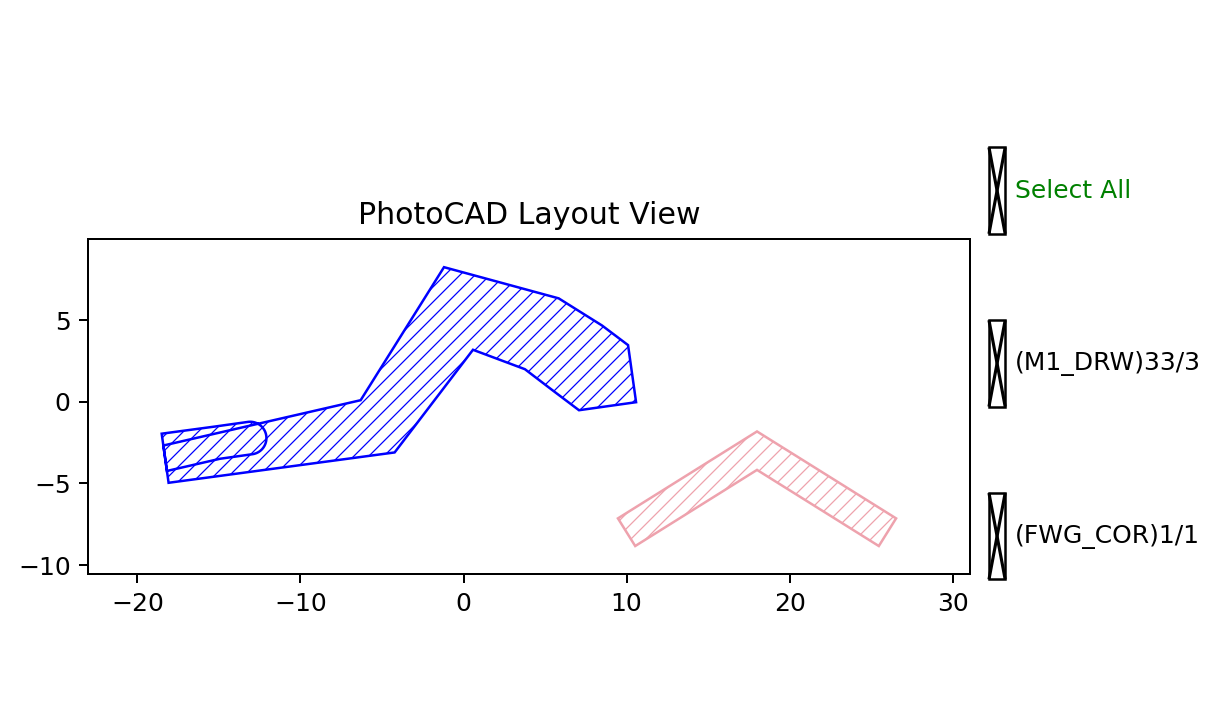
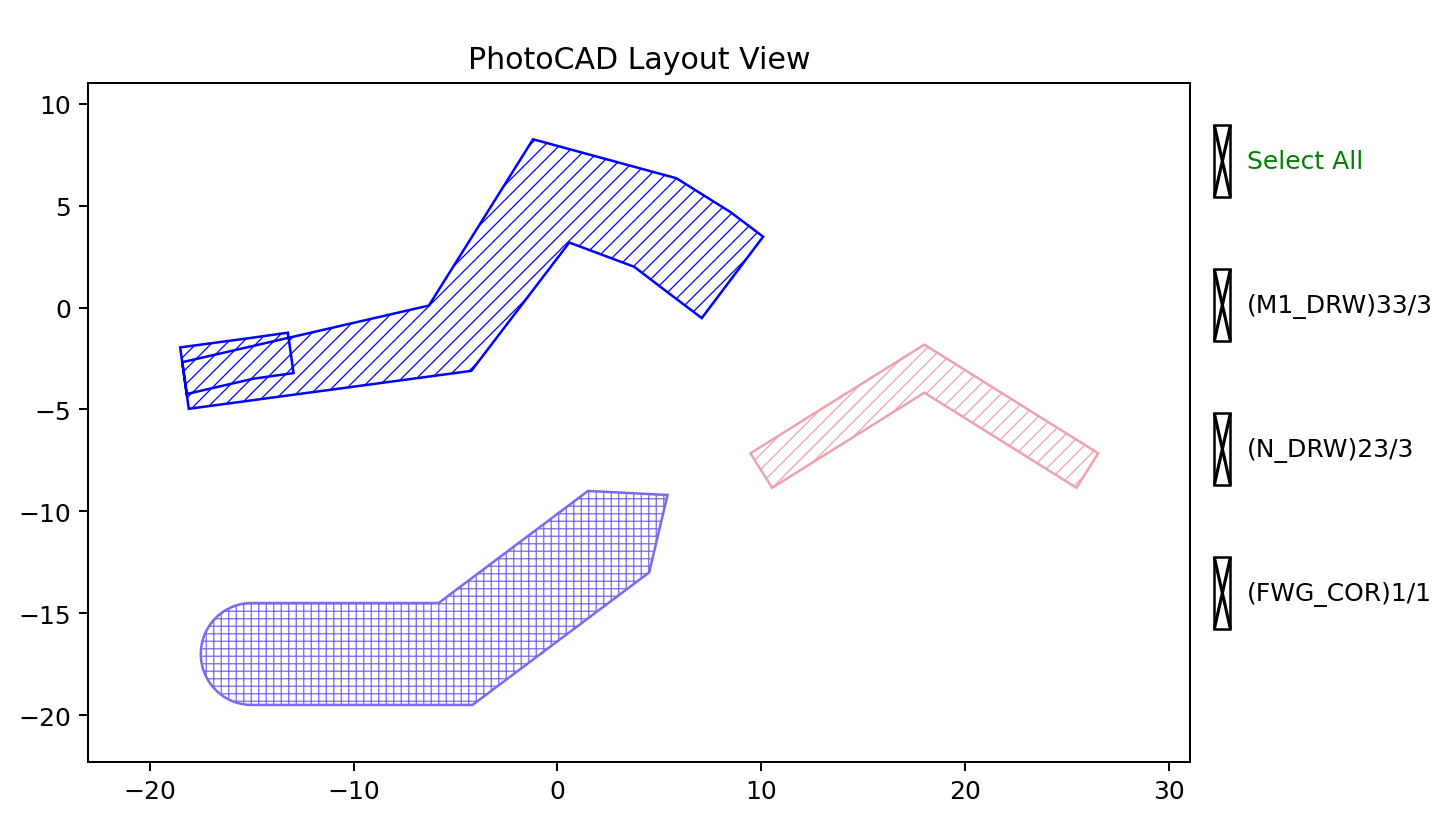
Add focused line cap examples

diff --git a/docs/en/09_api/elem_line.rst b/docs/en/09_api/elem_line.rst
@@ -142,8 +142,9 @@ LineBetween Parameters
 Basic Usage
 -----------
 
-The examples show a tapered ``Line`` and a ``LineBetween`` constructed from
-two explicit coordinates.
+The first two examples cover the taper, placement, and transform parameters.
+``cap_line`` is a fixed-width horizontal line without a transform, so the
+rounded start and triangular end can be compared directly.
 
 .. code-block:: python
 
@@ -162,10 +163,7 @@ two explicit coordinates.
        final_stroke_offset=1,
        taper_function=fp.TaperFunction.LINEAR,
        extension=(2, 3),
-       line_cap=(
-           fp.el.LineCapRound(),
-           fp.el.LineCapTriangle(ratio=0.6),
-       ),
+       line_cap=(None, None),
        origin=(-15, 8),
        transform=fp.rotate(degrees=5),
        layer=TECH.LAYER.FWG_COR,
@@ -181,18 +179,29 @@ two explicit coordinates.
        final_stroke_offset=0.5,
        taper_function=fp.TaperFunction.LINEAR,
        extension=(1, 1),
-       line_cap=(fp.el.LineCapRound(), fp.el.LineCapRound()),
+       line_cap=(None, None),
        origin=(12, 0),
        transform=fp.rotate(degrees=-5),
        layer=TECH.LAYER.M1_DRW,
    )
 
+   cap_line = fp.el.LineBetween(
+       start=(-10, -16),
+       end=(10, -16),
+       stroke_width=5,
+       line_cap=(
+           fp.el.LineCapRound(),
+           fp.el.LineCapTriangle(ratio=0.6),
+       ),
+       layer=TECH.LAYER.N_DRW,
+   )
+
    examples = fp.Device(
        name="line_examples",
-       content=[tapered_line, connected_line],
+       content=[tapered_line, connected_line, cap_line],
    )
    fp.plot(examples)
 
 .. image:: image/elem_line.png
-   :alt: Line and LineBetween examples
+   :alt: Line, LineBetween, and untransformed line cap examples
    :align: center

diff --git a/docs/en/09_api/elem_polyline.rst b/docs/en/09_api/elem_polyline.rst
@@ -77,7 +77,9 @@ Basic Usage
 -----------
 
 The first example exercises width, offset, tangent, corner, extension, and
-cap controls. The second shows a constant-width polyline.
+transform controls. The second shows a constant-width polyline.
+``cap_polyline`` uses simple raw coordinates without a transform so its rounded
+start and triangular end can be inspected directly.
 
 .. code-block:: python
 
@@ -98,10 +100,7 @@ cap controls. The second shows a constant-width polyline.
        raw_end_orientations=(0, -math.pi / 4),
        miter_limit=4,
        extension=(2, 2),
-       line_cap=(
-           fp.el.LineCapRound(),
-           fp.el.LineCapTriangle(ratio=0.5),
-       ),
+       line_cap=(None, None),
        origin=(-15, -3),
        transform=fp.rotate(degrees=8),
        layer=TECH.LAYER.FWG_COR,
@@ -114,12 +113,22 @@ cap controls. The second shows a constant-width polyline.
        layer=TECH.LAYER.M1_DRW,
    )
 
+   cap_polyline = fp.el.Polyline(
+       raw_polyline_points=[(-15, -17), (-5, -17), (3, -11)],
+       stroke_width=5,
+       line_cap=(
+           fp.el.LineCapRound(),
+           fp.el.LineCapTriangle(ratio=0.6),
+       ),
+       layer=TECH.LAYER.N_DRW,
+   )
+
    examples = fp.Device(
        name="polyline_examples",
-       content=[tapered_polyline, constant_polyline],
+       content=[tapered_polyline, constant_polyline, cap_polyline],
    )
    fp.plot(examples)
 
 .. image:: image/elem_polyline.png
-   :alt: Tapered and constant-width Polyline examples
+   :alt: Polyline and untransformed line cap examples
    :align: center

diff --git a/docs/en/09_api/elem_elliptical_arc.rst b/docs/en/09_api/elem_elliptical_arc.rst
@@ -93,9 +93,9 @@ the element follows a full ``360``-degree elliptical path.
 Basic Usage
 -----------
 
-The following examples cover every parameter listed above. The first arc uses
-two radii, degree angles, tapered width and offset, extensions, line caps, and a
-transform. The second arc demonstrates a single radius and radian angle inputs.
+The first two examples cover the radius, angle, taper, extension, and transform
+parameters. ``cap_arc`` isolates ``line_cap`` on a fixed-width elliptical arc
+without a transform, making the two end shapes easier to inspect.
 
 .. code-block:: python
 
@@ -110,7 +110,7 @@ transform. The second arc demonstrates a single radius and radian angle inputs.
         final_stroke_offset=1,
         taper_function=fp.TaperFunction.LINEAR,
         extension=(1, 2),
-        line_cap=(fp.el.LineCapRound(), fp.el.LineCapRound()),
+        line_cap=(None, None),
         origin=(0, 0),
         transform=fp.translate(0, 1),
         layer=TECH.LAYER.M1_DRW,
@@ -123,6 +123,19 @@ transform. The second arc demonstrates a single radius and radian angle inputs.
         stroke_width=1.2,
         origin=(26, 0),
         layer=TECH.LAYER.N_DRW,
+    )
+
+    cap_arc = fp.el.EllipticalArc(
+        radius=(9, 5),
+        initial_degrees=200,
+        final_degrees=340,
+        stroke_width=4,
+        line_cap=(
+            fp.el.LineCapRound(),
+            fp.el.LineCapTriangle(ratio=0.6),
+        ),
+        origin=(14, -15),
+        layer=TECH.LAYER.FWG_COR,
     )
 
 .. image:: image/elem_elliptical_arc_basic.png

diff --git a/docs/en/09_api/elem_curve.rst b/docs/en/09_api/elem_curve.rst
@@ -73,8 +73,10 @@ Parameters
 Basic Usage
 -----------
 
-Create a geometric centerline first, then pass it to ``fp.el.Curve``. This
-example uses ``fp.g.Bezier`` as the centerline.
+Create a geometric centerline first, then pass it to ``fp.el.Curve``. The
+Bezier example covers the taper and transform parameters. ``cap_curve`` uses a
+straight centerline without a transform so the two ``line_cap`` shapes can be
+compared directly.
 
 .. code-block:: python
 
@@ -98,21 +100,32 @@ example uses ``fp.g.Bezier`` as the centerline.
        taper_function=fp.TaperFunction.LINEAR,
        miter_limit=4,
        extension=(2, 3),
-       line_cap=(
-           fp.el.LineCapRound(),
-           fp.el.LineCapTriangle(ratio=0.5),
-       ),
+       line_cap=(None, None),
        origin=(0, 0),
        transform=fp.rotate(degrees=8),
        layer=TECH.LAYER.FWG_COR,
    )
 
+   cap_curve = fp.el.Curve(
+       fp.g.Line(
+           length=18,
+           anchor=fp.Anchor.CENTER,
+           origin=(0, -14),
+       ),
+       stroke_width=4,
+       line_cap=(
+           fp.el.LineCapRound(),
+           fp.el.LineCapTriangle(ratio=0.6),
+       ),
+       layer=TECH.LAYER.M1_DRW,
+   )
+
    examples = fp.Device(
        name="curve_examples",
-       content=[curve],
+       content=[curve, cap_curve],
    )
    fp.plot(examples)
 
 .. image:: image/elem_curve.png
-   :alt: Curve created from a Bezier centerline
+   :alt: Curve and untransformed line cap examples
    :align: center

diff --git a/docs/en/09_api/elem_arc.rst b/docs/en/09_api/elem_arc.rst
@@ -93,9 +93,9 @@ or degrees.
 Basic Usage
 -----------
 
-The following examples cover every parameter listed above. The first arc uses
-degree angles, tapered width and offset, end extensions, line caps, and a
-transform. The second arc demonstrates the alternative radian angle inputs.
+The first two examples cover the angle, taper, extension, and transform
+parameters. ``cap_arc`` isolates ``line_cap`` on a fixed-width arc without a
+transform, making the rounded start and triangular end easy to compare.
 
 .. code-block:: python
 
@@ -110,7 +110,7 @@ transform. The second arc demonstrates the alternative radian angle inputs.
         final_degrees=120,
         angle_step=0.05,
         extension=(1, 2),
-        line_cap=(fp.el.LineCapRound(), fp.el.LineCapRound()),
+        line_cap=(None, None),
         origin=(0, 0),
         transform=fp.translate(0, 2),
         layer=TECH.LAYER.M1_DRW,
@@ -123,6 +123,19 @@ transform. The second arc demonstrates the alternative radian angle inputs.
         final_radians=1.5708,
         origin=(24, 0),
         layer=TECH.LAYER.N_DRW,
+    )
+
+    cap_arc = fp.el.Arc(
+        radius=6,
+        stroke_width=4,
+        initial_degrees=200,
+        final_degrees=340,
+        line_cap=(
+            fp.el.LineCapRound(),
+            fp.el.LineCapTriangle(ratio=0.6),
+        ),
+        origin=(12, -15),
+        layer=TECH.LAYER.FWG_COR,
     )
 
 .. image:: image/elem_arc_basic.png

diff --git a/docs/en/09_api/elem_curve_paint.rst b/docs/en/09_api/elem_curve_paint.rst
@@ -124,7 +124,9 @@ Basic Usage
 
 The first example paints a continuous ``M1_DRW`` strip along an arc. The
 second example places rectangular ``N_DRW`` patterns periodically along
-another arc.
+another arc. The final example isolates ``line_cap`` on a straight curve
+without a transform so the rounded start and triangular end are easy to
+compare.
 
 .. code-block:: python
 
@@ -157,6 +159,21 @@ another arc.
         period=3,
     )
     periodic = periodic_paint(periodic_curve)
+
+    cap_curve = fp.g.Line(
+        length=18,
+        anchor=fp.Anchor.CENTER,
+        origin=(14, -15),
+    )
+    cap_paint = fp.el.CurvePaint.ContinuousLayer(
+        layer=TECH.LAYER.FWG_COR,
+        width=5,
+        line_cap=(
+            fp.el.LineCapRound(),
+            fp.el.LineCapTriangle(ratio=0.6),
+        ),
+    )
+    capped = cap_paint(cap_curve)
 
 .. image:: image/elem_curve_paint_basic.png
    :align: center
